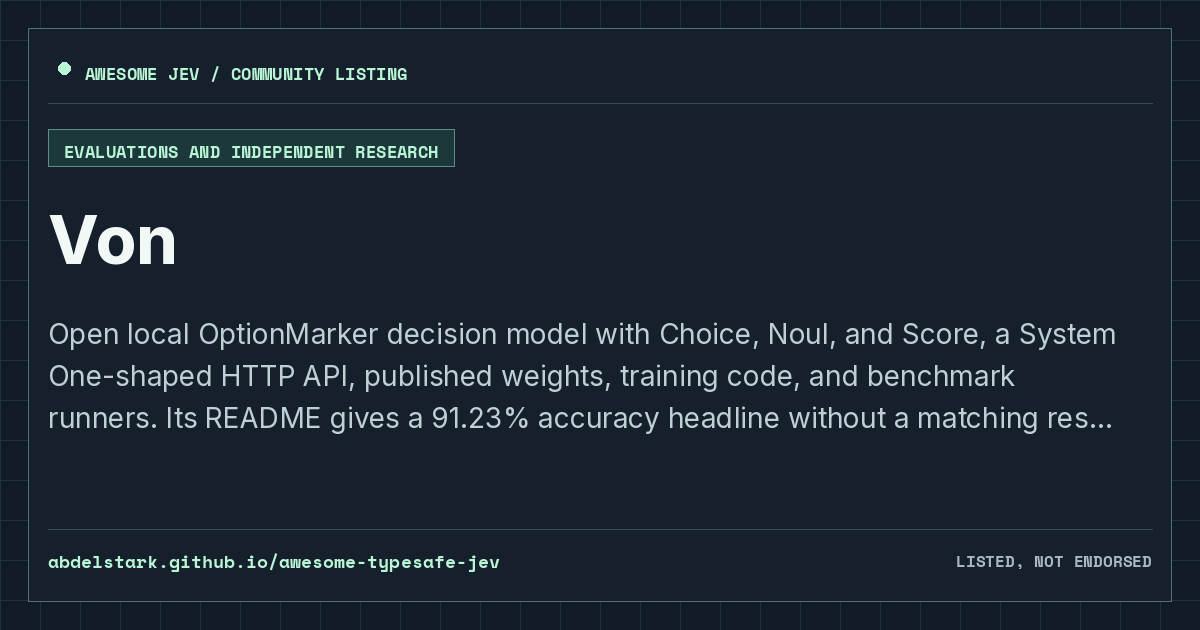
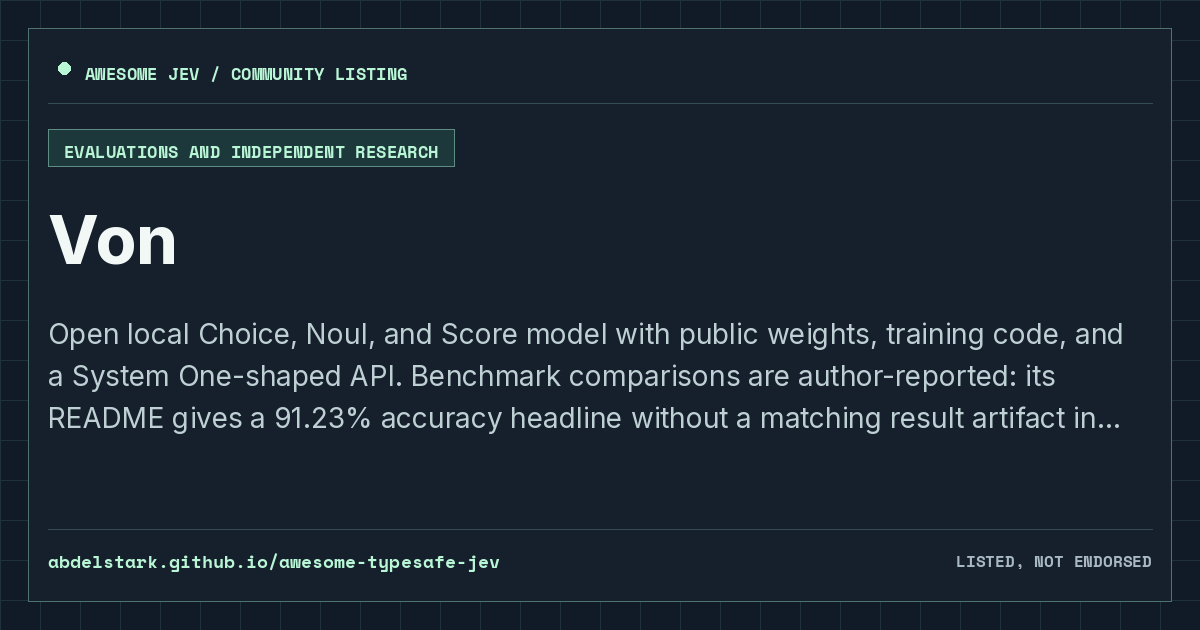
Qualify Von benchmark claims in share preview

Changed region(s): [[0.0308, 0.5127, 0.9558, 0.6937]]

diff --git a/projects/gh-wfzyx-von.html b/projects/gh-wfzyx-von.html
@@ -1,12 +1,12 @@
 ---
 layout: "resource"
 title: "Von | Awesome Jev"
-description: "Open local OptionMarker decision model with Choice, Noul, and Score, a System One-shaped HTTP API, published weights, training code, and benchmark runners. Its README gives a 91.23% accuracy headline without a matching result artifact in the repo, while its 49-task comparison table reports 71.5% macro accuracy; treat those comparisons as author-reported until reproduced."
+description: "Open local Choice, Noul, and Score model with public weights, training code, and a System One-shaped API. Benchmark comparisons are author-reported: its README gives a 91.23% accuracy headline without a matching result artifact in the repo, while its 49-task table reports 71.5% macro accuracy."
 permalink: "/projects/gh-wfzyx-von/"
 resource_name: "Von"
 resource_slug: "gh-wfzyx-von"
 resource_url: "https://github.com/wfzyx/von"
-description_markdown: "Open local OptionMarker decision model with Choice, Noul, and Score, a System One-shaped HTTP API, published weights, training code, and benchmark runners. Its README gives a 91.23% accuracy headline without a matching result artifact in the repo, while its 49-task comparison table reports 71.5% macro accuracy; treat those comparisons as author-reported until reproduced."
+description_markdown: "Open local Choice, Noul, and Score model with public weights, training code, and a System One-shaped API. Benchmark comparisons are author-reported: its README gives a 91.23% accuracy headline without a matching result artifact in the repo, while its 49-task table reports 71.5% macro accuracy."
 category_name: "Evaluations and independent research"
 category_id: "evaluations-and-independent-research"
 social_image: "/assets/cards/gh-wfzyx-von.png"

diff --git a/categories/evaluations-and-independent-research.html b/categories/evaluations-and-independent-research.html
@@ -114,7 +114,7 @@ resources:
     image: "/assets/cards/gh-iammrduncan-typesafe-ai-benchmark.png"
   - name: "Von"
     url: "https://github.com/wfzyx/von"
-    description: "Open local OptionMarker decision model with Choice, Noul, and Score, a System One-shaped HTTP API, published weights, training code, and benchmark runners. Its README gives a 91.23% accuracy headline without a matching result artifact in the repo, while its 49-task comparison table reports 71.5% macro accuracy; treat those comparisons as author-reported until reproduced."
+    description: "Open local Choice, Noul, and Score model with public weights, training code, and a System One-shaped API. Benchmark comparisons are author-reported: its README gives a 91.23% accuracy headline without a matching result artifact in the repo, while its 49-task table reports 71.5% macro accuracy."
     permalink: "/projects/gh-wfzyx-von/"
     image: "/assets/cards/gh-wfzyx-von.png"
 ---

diff --git a/README.md b/README.md
@@ -387,7 +387,7 @@ Independent tests and open decision-model alternatives provide methods and resul
 - [Rizzo Flow](https://github.com/Rizzo-AI-Academy/rizzo-flow) — Local, open-model decision server that reads answer-token probabilities instead of generating text, with a Jev-compatible Choice, Score, and Noul API plus its own numeric primitive. Its authors explicitly make no quality-parity claim with Jev; probabilities need calibration on the user's own data.
 - [SemIf (formerly OpenJev)](https://github.com/TheoLeeCJ/SemIf) — Independent open-model research baseline for direct typed option scoring; it reproduces the interface pattern, not Jev's undisclosed model or training.
 - [TypeSafe AI Benchmark](https://github.com/iammrduncan/typesafe-ai-benchmark) — Side-by-side Jev and Qwen-on-Cerebras comparison with raw exports, cost accounting, methodology, and task-specific limitations.
-- [Von](https://github.com/wfzyx/von) — Open local OptionMarker decision model with Choice, Noul, and Score, a System One-shaped HTTP API, published weights, training code, and benchmark runners. Its README gives a 91.23% accuracy headline without a matching result artifact in the repo, while its 49-task comparison table reports 71.5% macro accuracy; treat those comparisons as author-reported until reproduced.
+- [Von](https://github.com/wfzyx/von) — Open local Choice, Noul, and Score model with public weights, training code, and a System One-shaped API. Benchmark comparisons are author-reported: its README gives a 91.23% accuracy headline without a matching result artifact in the repo, while its 49-task table reports 71.5% macro accuracy.
 
 ### Showcases and field notes
 
